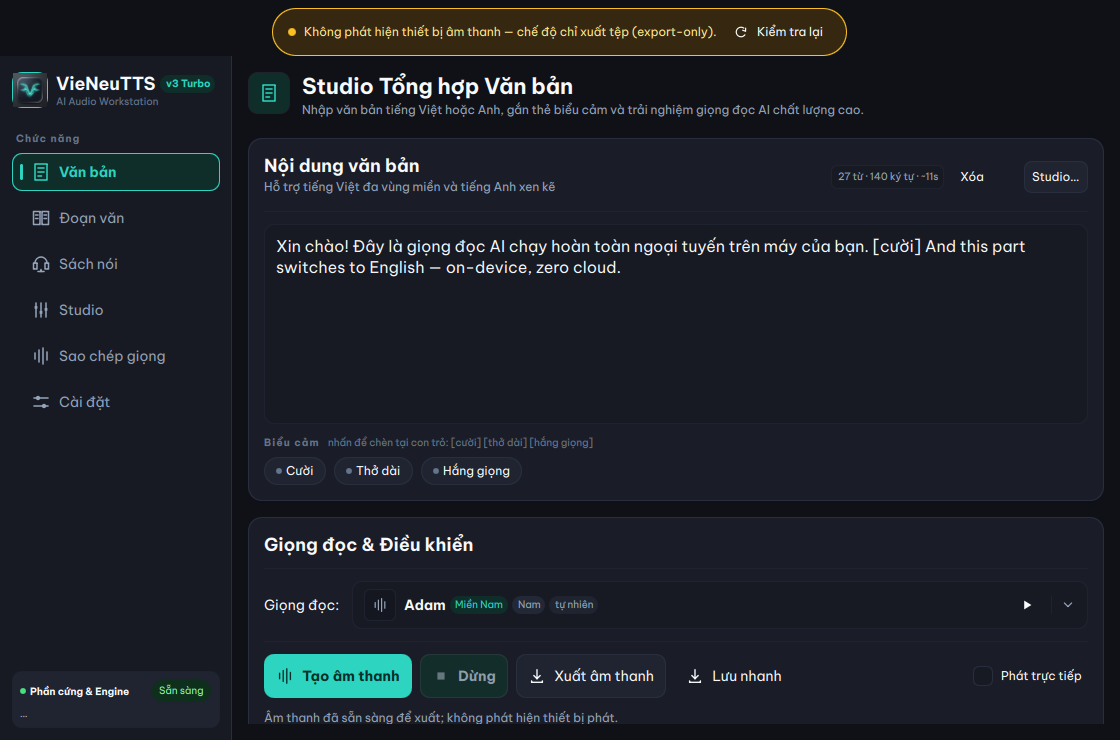
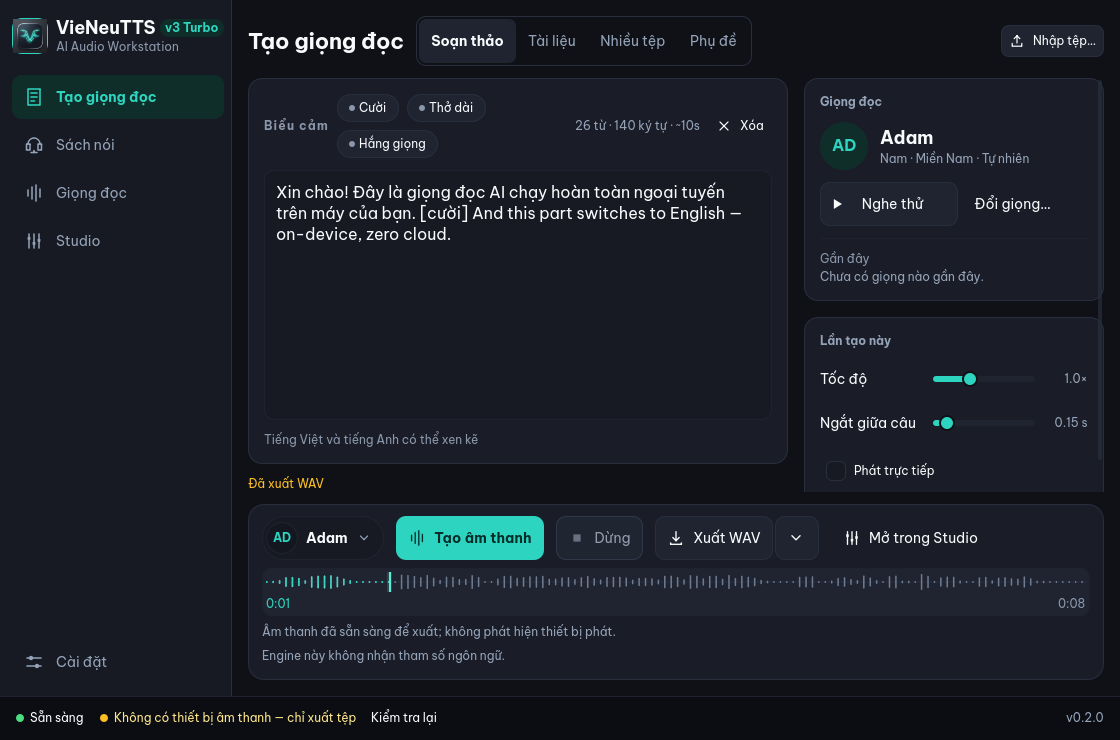
docs: README screenshots and copy for the five-destination redesign; product.md feature 15
Regenerated the six README shots against the redesigned UI and rewrote
the matching README sections (Tạo giọng đọc, Giọng đọc, Studio's Hiệu ứng
panel, Sách nói master–detail, Cài đặt sections). The screenshot script
keeps Settings at 1120x740, waits past the document metrics debounce, and
falls back to the open book when a chapter render does not complete.

diff --git a/scripts/generate_screenshots.py b/scripts/generate_screenshots.py
@@ -269,7 +269,7 @@ def capture_readme(out_dir: Path) -> int:
     para_tab = tab("createTab", "create", "document")
     if para_tab is not None:
         child(para_tab, "paragraphEditor").setProperty("text", PARAGRAPH_TEXT)
-        pump(app, 0.3)
+        pump(app, 0.8)  # past the 250 ms metrics debounce
         grab("paragraph-studio.png")
 
     # ── Voice cloning: consent → reference clip → cloned voice entry ────────
@@ -307,14 +307,24 @@ def capture_readme(out_dir: Path) -> int:
             audiobook.renderChapter(0)
             if wait_for(app, lambda: audiobook.renderingIndex == 0, 10, "render start"):
                 wait_for(app, lambda: audiobook.renderingIndex == -1, 120, "chapter render")
-            # Paused mid-chapter: the dock waveform, playhead and position
-            # labels all render, without committing to a full playback.
-            audiobook.playChapter(0)
-            pump(app, 1.3)
-            audiobook.pause()
-            pump(app, 0.3)
-            grab("audiobook-studio.png")
-            audiobook.stopPlay()
+            if audiobook.errorText:
+                print(f"audiobook: {audiobook.errorText}", file=sys.stderr)
+            if audiobook.chapters and audiobook.chapters[0].get("ready"):
+                # Paused mid-chapter: the dock waveform, playhead and position
+                # labels all render, without committing to a full playback.
+                audiobook.playChapter(0)
+                pump(app, 1.3)
+                audiobook.pause()
+                pump(app, 0.3)
+                grab("audiobook-studio.png")
+                audiobook.stopPlay()
+            else:
+                # No rendered chapter (e.g. a headless host): playChapter would
+                # start an on-demand render and the grab would catch it at 0 %.
+                print("audiobook: chapter 1 not rendered; grabbing the open book", file=sys.stderr)
+                audiobook.cancelRender()
+                pump(app, 0.4)
+                grab("audiobook-studio.png")
         else:
             grab("audiobook-studio.png")
 
@@ -323,7 +333,6 @@ def capture_readme(out_dir: Path) -> int:
     # section holds the default voice, temperature, speed and pause — the
     # parts the README walks through.
     settings_item = tab("settingsTab", "settings")
-    window.setProperty("height", 1440)  # screen clamps to its visible frame
     controller.language = "en"
     if settings_item is not None:
         settings_item.setProperty("currentSection", "voice")

diff --git a/README.md b/README.md
@@ -19,23 +19,25 @@ never leave the machine.
 </p>
 
 <p align="center">
-  <img src="docs/screenshots/text-studio.png?v=3" width="880"
-       alt="VieNeuTTS text studio: mixed Vietnamese/English synthesis with an emotion tag and a replaying waveform" />
+  <img src="docs/screenshots/text-studio.png?v=4" width="880"
+       alt="VieNeuTTS Tạo giọng đọc screen: mixed Vietnamese/English text with an emotion tag, the voice inspector, and the transport dock replaying the waveform" />
 </p>
 
-*The text studio, mid-replay: mixed Vietnamese/English input with an inline
-`[cười]` emotion tag, one of ~20 preset voices, and the finished-audio
-waveform.*
+*Tạo giọng đọc (Create), mid-replay: mixed Vietnamese/English input with an
+inline `[cười]` emotion tag, the voice inspector with per-run speed and pause,
+and the transport dock with the finished-audio waveform. The app has five
+destinations: Tạo giọng đọc · Sách nói · Giọng đọc · Studio · Cài đặt.*
 
 ## Features
 
-### 🎙 Text studio — free-text synthesis
+### 🎙 Tạo giọng đọc — free-text synthesis
 
 - Vietnamese/English **code-switching** in a single request
-- ~20 preset voices grouped **Bắc / Trung / Nam** (North/Central/South), with
-  **one-click audition** from the redesigned voice picker — regional pills,
-  gender/style badges, search, and cached pre-listen samples that never touch
-  your editor text
+- ~20 preset voices grouped **Bắc / Trung / Nam** (North/Central/South) in
+  the **Giọng đọc** library — gender/style filters, accent-insensitive search,
+  **one-click audition** (cached pre-listen samples that never touch your
+  editor text), "Đặt làm mặc định", and your cloned voices; the Create
+  inspector keeps the current voice and your three most recent ones at hand
 - Inline emotion tags: `[cười] [thở dài] [hắng giọng]` (the three cues the
   v3 Turbo emotion checkpoint was trained on)
 - **Streaming playback** — first chunk observed at about 100 ms in a
@@ -54,32 +56,37 @@ waveform.*
 
 ### 📄 Long documents
 
-The paragraph studio runs in two modes behind one docked action bar: a
-**single-document editor** and a **multi-file batch queue**. Import `.txt`,
+Tạo giọng đọc's **Tài liệu**, **Nhiều tệp** and **Phụ đề** modes share the
+same transport dock: a **single-document editor**, a **multi-file batch
+queue**, and the subtitle studio. Import `.txt`,
 `.md`, `.docx`, `.pdf`, or `.srt` and synthesize long-form text with the same
 voice controls — or drop several files onto the queue and render them back to
 back. Subtitle files import as clean spoken text by default, with an option to
 keep the original timecodes.
 For texts longer than ~2,000 words or 10,000 characters, synthesize through the
 **Audiobook (EPUB) studio** (which splits and caches chapter by chapter) rather
-than submitting one giant block to the Text studio. This avoids ONNX Runtime CPU
+than submitting one giant block in Soạn thảo mode. This avoids ONNX Runtime CPU
 memory arena growth (~2.5 GB committed memory) and ensures stable processing.
 Both studios surface an inline advisory once the input passes 2,000 characters,
 pointing at the same guidance.
 
 <p align="center">
-  <img src="docs/screenshots/paragraph-studio.png?v=3" width="880"
-       alt="Paragraph studio with an imported Vietnamese document" />
+  <img src="docs/screenshots/paragraph-studio.png?v=4" width="880"
+       alt="Tạo giọng đọc in Tài liệu mode with an imported Vietnamese document" />
 </p>
 
 ### 🎛 Audio studio — post-synthesis polish
 
-Send any generated take to the **Studio** tab (from Text, Paragraph, or a
-rendered audiobook chapter) and finish it non-destructively:
+Send any generated take to **Studio** (from Tạo giọng đọc or a rendered
+audiobook chapter) and finish it non-destructively:
 
-- **Op stack** — gain (dB), peak normalize (0 dBFS), silence trim, speed,
-  inter-clip gap, and fade in/out stack as undoable steps; reset returns to
-  the original audio
+- **Timeline** — clips as duration-proportional blocks with a selection range
+  and playhead; trim or cut the selection
+- **Hiệu ứng panel** — gain (dB), peak normalize (0 dBFS), silence trim,
+  speed, inter-clip gap, and fade in/out are staged as pending edits you can
+  A/B against the original (**Gốc / Đã chỉnh**), then committed with one
+  **"Áp dụng N thay đổi"** as a single undoable step; history chips jump back
+  to any step and reset returns to the original audio
 - **Clip list** — per-clip preview, reorder, and **segment
   re-generation**: re-synthesize one sentence with a different voice or edited
   text without touching the rest of the take
@@ -87,34 +94,38 @@ rendered audiobook chapter) and finish it non-destructively:
   pause/resume transport; export the mix as WAV or MP3
 
 <p align="center">
-  <img src="docs/screenshots/studio.png" width="880"
-       alt="Audio studio: master waveform paused mid-preview, op stack, and clip list" />
+  <img src="docs/screenshots/studio.png?v=2" width="880"
+       alt="Studio: timeline paused mid-preview, history chips, clip list, and the Hiệu ứng panel" />
 </p>
 
 ### 🧬 Instant voice cloning
 
-Clone any voice from a 3–8 s reference clip — optional denoise, instant
-preview, and the cloned voice becomes selectable in every studio.
+Clone any voice from a 3–8 s reference clip (Giọng đọc → **Tạo giọng mới**) —
+optional denoise, instant preview, and the cloned voice becomes selectable
+everywhere.
 
 <p align="center">
-  <img src="docs/screenshots/voice-cloning.png?v=3" width="880"
-       alt="Voice cloning tab with a reference clip and a cloned voice entry" />
+  <img src="docs/screenshots/voice-cloning.png?v=4" width="880"
+       alt="Giọng đọc clone view with a reference clip and a cloned voice entry" />
 </p>
 
 ### 📚 EPUB audiobook studio
 
-Chapter-aware playback, per-chapter WAV cache, resume, ordered export,
-karaoke transcript sync with click-to-seek, render ETA, and render-all
-progress.
+A library column of books next to the open book: a full-height chapter list,
+chapter-aware playback, per-chapter WAV cache, resume, ordered export,
+karaoke transcript sync with click-to-seek (docked beside the chapters on
+wide windows), render ETA, and render-all progress.
 
 <p align="center">
-  <img src="docs/screenshots/audiobook-studio.png?v=3" width="880"
-       alt="Audiobook studio with a rendered chapter and the player dock paused mid-chapter" />
+  <img src="docs/screenshots/audiobook-studio.png?v=4" width="880"
+       alt="Sách nói: the book library beside the open book's chapter list and the player dock" />
 </p>
 
 ### ⚙ Engine auto-detection, speech tuning & bilingual UI
 
-Automatic CPU/ONNX vs NVIDIA/CUDA detection with manual override. In Settings,
+Automatic CPU/ONNX vs NVIDIA/CUDA detection with manual override (Cài đặt →
+Engine & phần cứng leads with a summary of what runs and why; precision, the
+CUDA runtime and diagnostics sit under "Nâng cao"). In Settings,
 a **reading-speed control (0.5×–2.0×)** and a **sentence-pause control (0–2 s)**
 time-stretch the output with a pure-NumPy WSOLA implementation — pitch is
 preserved without the phase-vocoder rumble — on both the batch and streaming
@@ -141,8 +152,8 @@ and install by re-extracting over the old folder (Linux: re-run
 `share/linux/install.sh`).
 
 <p align="center">
-  <img src="docs/screenshots/settings.png?v=4" width="880"
-       alt="Settings (English UI): reading speed and sentence-pause sliders, live-preview toggle, and the Appearance section" />
+  <img src="docs/screenshots/settings.png?v=5" width="880"
+       alt="Settings (English UI): section navigation, settings search, and the Voice &amp; pacing section" />
 </p>
 
 ## Status
@@ -234,7 +245,7 @@ Settings.
   `instruct` (the pinned `qwen-tts` 0.1.1 drops it for 0.6B, and Qwen's own
   model table lists instruction control for the 1.7B models only), and they
   read the text as written rather than interpreting VieNeu's inline emotion
-  tags. The Text tab therefore replaces its `[cười]`-style chips with the
+  tags. The compose toolbar therefore replaces its `[cười]`-style chips with the
   reason when a Qwen profile is active: tone comes from the chosen speaker
   (CustomVoice) or from your enrolled reference clip (Base).
 

diff --git a/conductor/product.md b/conductor/product.md
@@ -193,6 +193,26 @@ short snippet to a full document, fully offline.
     default BLAS thread cap of 1 (VieNeu RTF 1.43 → 0.80 on a 4-core host;
     other engine knobs stay at SDK defaults until benchmarks justify a flip).
 
+15. **UI/UX shell redesign (track `ui_shell_redesign_20261010`, on `main`,
+    unreleased)** — five destinations replace the six-tab sidebar:
+    **Tạo giọng đọc** (one Create screen whose Soạn thảo / Tài liệu / Nhiều
+    tệp / Phụ đề modes share a single TransportDock, with a right-hand
+    inspector: current voice + audition, the three most recent voices
+    persisted per engine profile, per-run speed/pause and the one live-preview
+    toggle), **Sách nói** (library ⇄ book master–detail, full-height chapter
+    list, reader docked at ≥1200 px), **Giọng đọc** (20-preset library grouped
+    Bắc/Trung/Nam with filters, search, audition and "Đặt làm mặc định",
+    cloned voices, and the cloning flow as its clone view; "Đổi giọng…" from
+    Create opens it in pick mode), **Studio** (timeline with proportional clip
+    blocks, history chips, a Hiệu ứng panel whose edits stay pending with a
+    Gốc / Đã chỉnh A/B until one "Áp dụng N thay đổi" step) and **Cài đặt**
+    (six sections, label filter, engine summary card, "Nâng cao"
+    disclosures). One 44 px status bar replaces the scattered status
+    surfaces; the design system enforces a 12 px type floor, 44 px targets,
+    AA-contrast text and at most one primary action per screen, and every
+    destination is usable at the 640×420 minimum window. Legacy navigation
+    ids (text / paragraph / cloning) stay as aliases.
+
 ## Success Measures (v1)
 - All Section 7.1–7.4 acceptance criteria pass (text, file, cloning,
   settings flows).
@@ -305,3 +325,4 @@ which removed ~76 low-value tests and cut the full run ~175 s → ~55 s).
 <!-- refreshed 2026-09-16: v0.1.15 + v0.1.16 released (tagged d5b2529); feature 9 rolled forward with the v0.1.15 pinned-transport/region-selection/truthful-op-stack/breadcrumb/keyboard work and the v0.1.16 discoverable-transport/numeric-entry/danger-styling/component-extraction pass; test items 1055 collected / 1054 selected; gate 1054 passed + 1 device-dependent real-QAudioSink host failure (byte-guard gap in test_stream_playback.py — CI-skipped, bead filed); deps unchanged vieneu 3.3.0/PySide6 6.11.2 -->
 
 <!-- refreshed 2026-10-10 (2): test-suite diet (bead zc8p) — suite 1879 collected / 1861 selected; no feature or scope change; src-level test speedups parked in bead 37ma -->
+<!-- refreshed 2026-10-10: feature 15 added for track ui_shell_redesign_20261010 (five-destination IA, CreateTab + inspector, Giọng đọc library, Sách nói master–detail, Studio pending-edit panel, Cài đặt sections, 640×420 pass) -->

diff --git a/conductor/tracks/ui_shell_redesign_20261010/learnings.md b/conductor/tracks/ui_shell_redesign_20261010/learnings.md
@@ -246,3 +246,9 @@ From bd memories:
   - Patterns: test "usable", not just "fits" — measure the primary region's visible height after clipping by docks/status bar, and prove the primary action is reachable by actually scrolling.
   - Gotchas: at 420 px tall the clone consent button needs a page scroll (accepted; tested reachable). 1120×420 isn't a required size: the audiobook header stays and the chapter list is short. One-off flake seen once in `TestAudiobookTabSmoke::test_waveform_render_progress_interactions_and_render_all` (`inline_bar_on_screen`); 2 clean full runs since.
 ---
+
+## [2026-10-10 23:50] - Phase 4 Task 4.6: Docs
+- **Implemented:** regenerated the six README shots (`scripts/generate_screenshots.py`, real synthesis) for the new IA; README copy/alt text/cache-busters updated (Tạo giọng đọc, Giọng đọc library + clone view, Studio timeline + Hiệu ứng panel, Sách nói master–detail, Cài đặt sections); product.md feature 15. Script: settings shot stays 1120×740 (one section at a time), paragraph grab waits past the 250 ms metrics debounce, audiobook shot falls back to the open book when chapter 1 didn't render (no on-demand render caught at 0 %).
+- **Learnings:**
+  - Gotchas: README mode uses the REAL user settings/data dir — on a dev box with a Qwen profile active, run it with `XDG_DATA_HOME`/`XDG_CONFIG_HOME` pointed at a scratch dir (fresh settings = VieNeu) and `HF_HOME` at a cache holding VieNeu-TTS-v3-Turbo; cloning needs network on first run (encoder download). On a headless host every shot carries the "Không có thiết bị âm thanh — chỉ xuất tệp" status and chapter render doesn't complete, so regenerate README shots on a desktop with audio before a release.
+---

diff --git a/conductor/tracks/ui_shell_redesign_20261010/plan.md b/conductor/tracks/ui_shell_redesign_20261010/plan.md
@@ -159,7 +159,7 @@ before each (patterns: index.lock + shared-copy ping-pong).
   <!-- depends: task1, task2, task4 -->
   - [x] Test: size scan from 1.2 passes at 640×420 for every destination; no
         horizontal overflow (content width ≤ window width)
-- [ ] Task 4.6: Docs
+- [x] Task 4.6: Docs
   <!-- depends: task5 -->
-  - [ ] Refresh `docs/screenshots/*.png`, update `conductor/product.md`
+  - [x] Refresh `docs/screenshots/*.png`, update `conductor/product.md`
         feature list for the new IA
